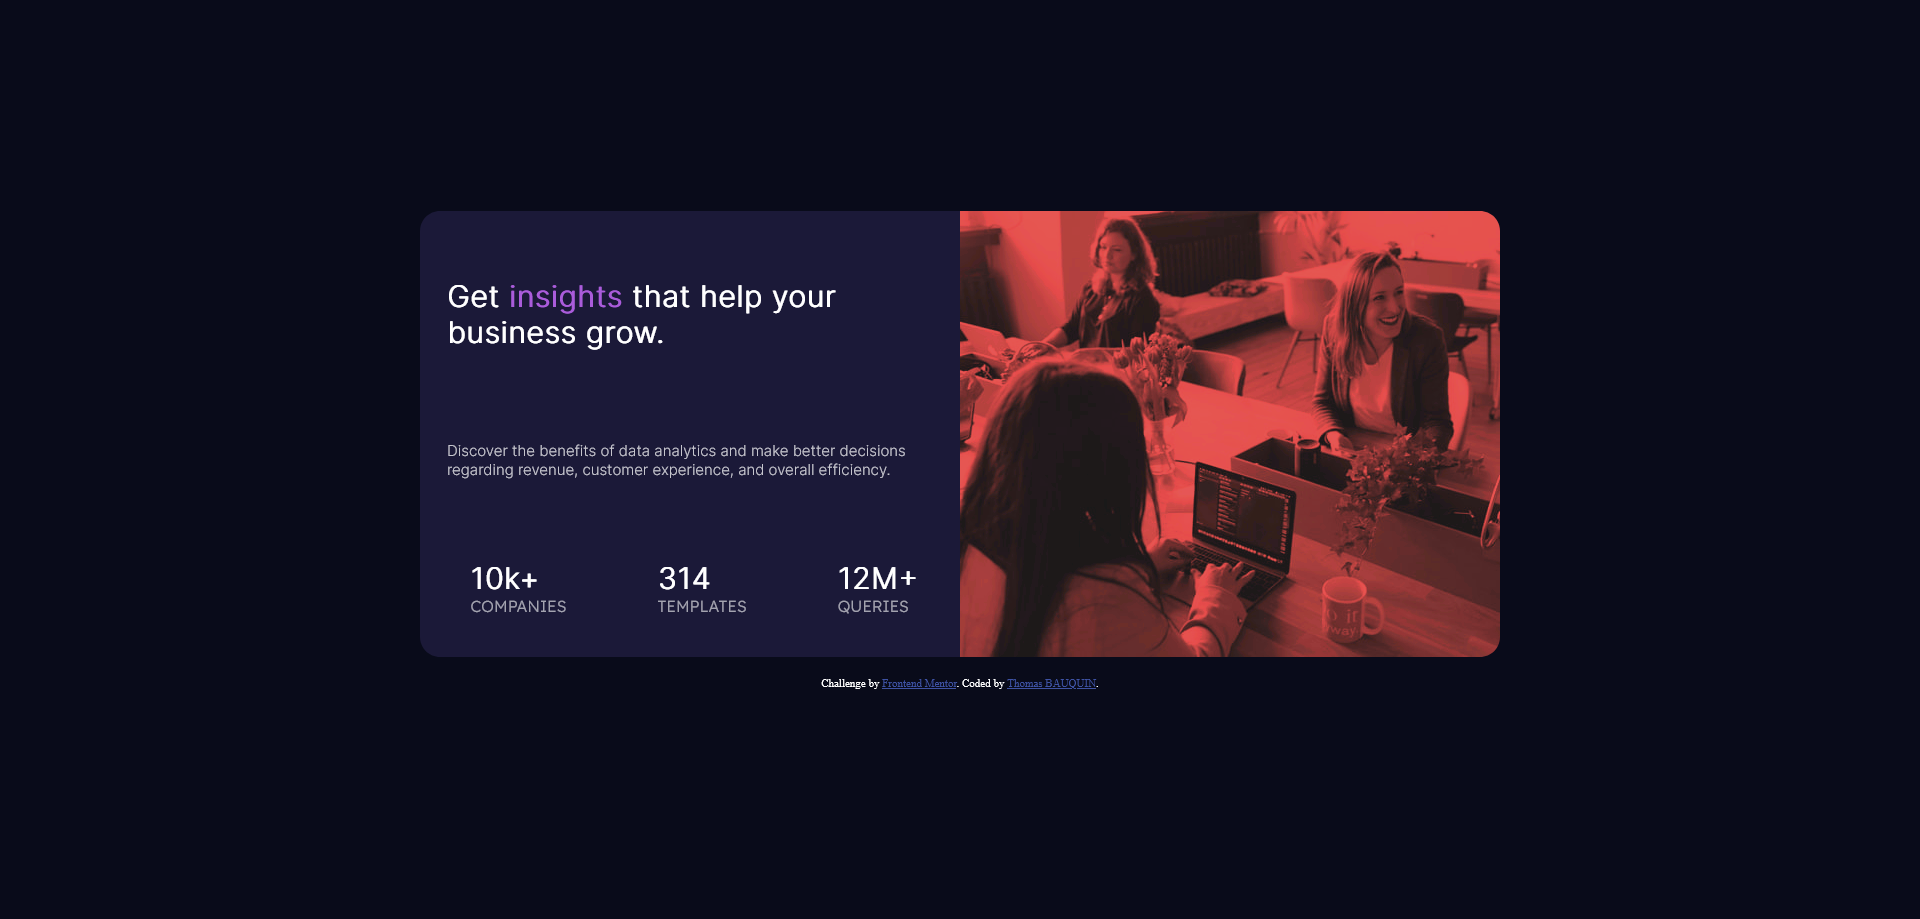
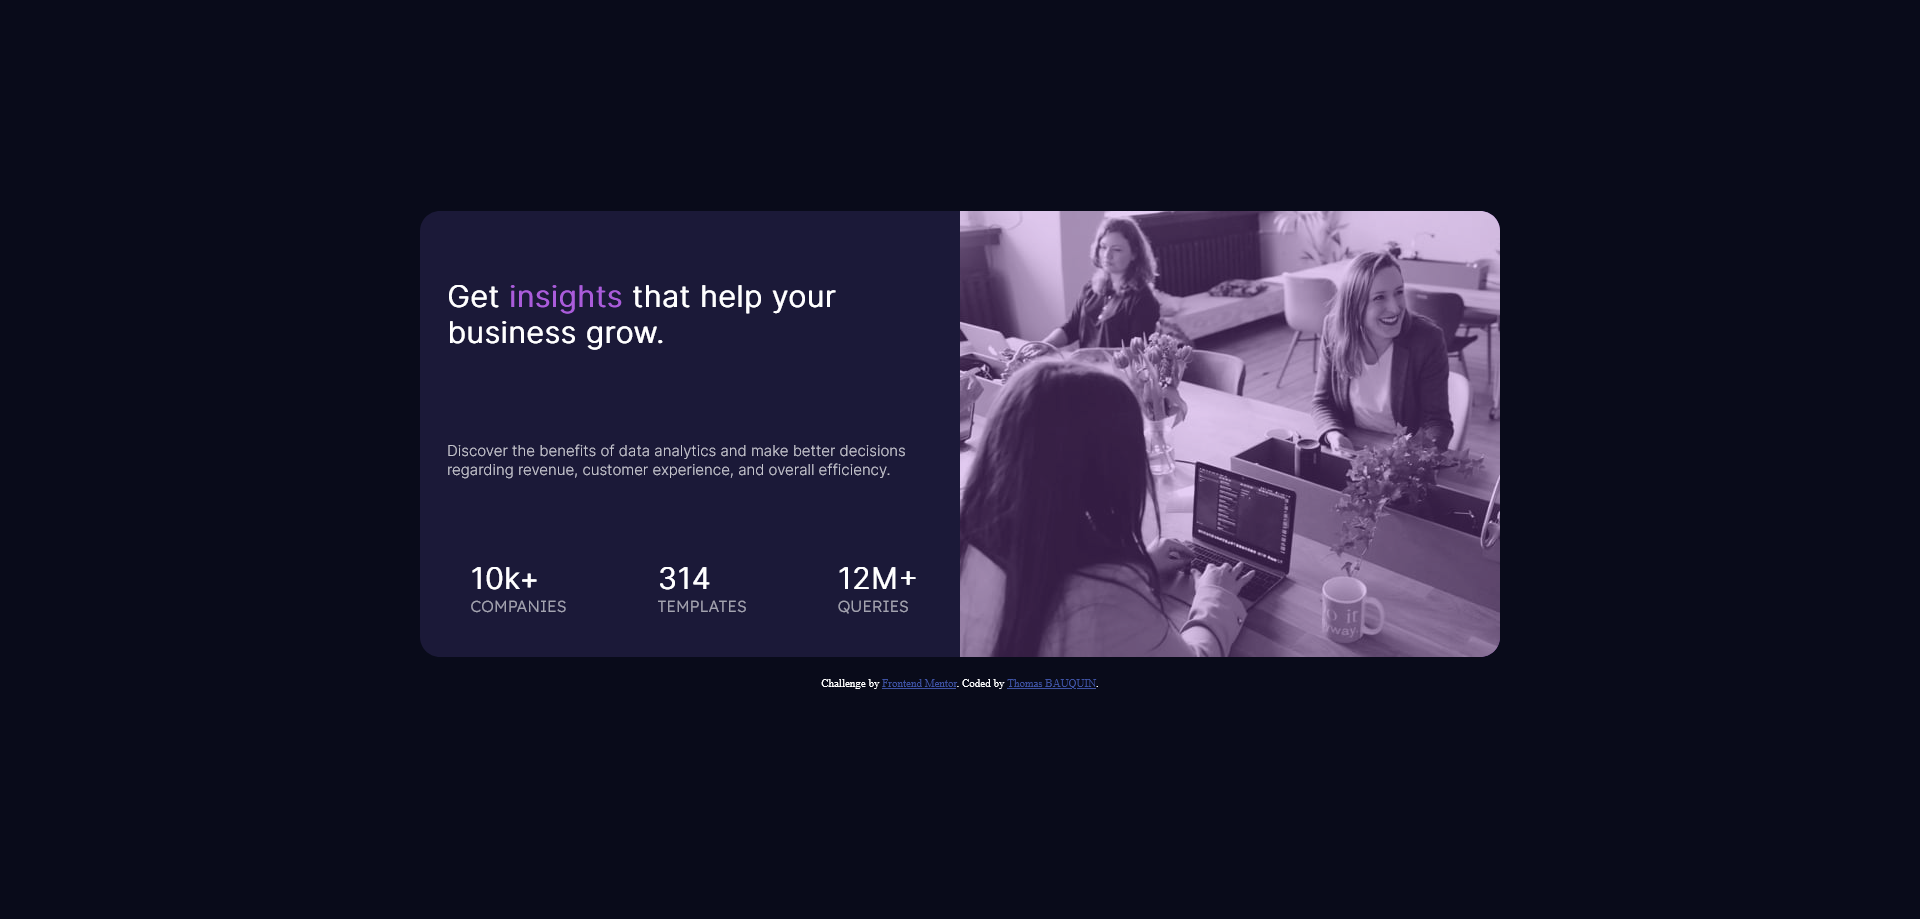
img color

Changed region(s): [[0.5, 0.2133, 0.7812, 0.7312]]

diff --git a/src/styles.css b/src/styles.css
@@ -70,8 +70,9 @@ body {
 }
 
 .picture {
-    color: hsl(277, 64%, 61%);
+    background-color: hsl(277, 64%, 61%);
     width: 50%;
+    z-index: 1;
     border-radius: 0 20px 20px 0;
 }
 
@@ -79,7 +80,8 @@ img {
     max-width: 100%;
     max-height: 100%;
     display: flex;
-    filter: grayscale(100%) brightness(40%) sepia(100%) hue-rotate(-50deg) saturate(600%) contrast(0.8);
+    opacity: 0.7;
+    z-index: 0;
     border-radius: 0 20px 20px 0;
 }
 
